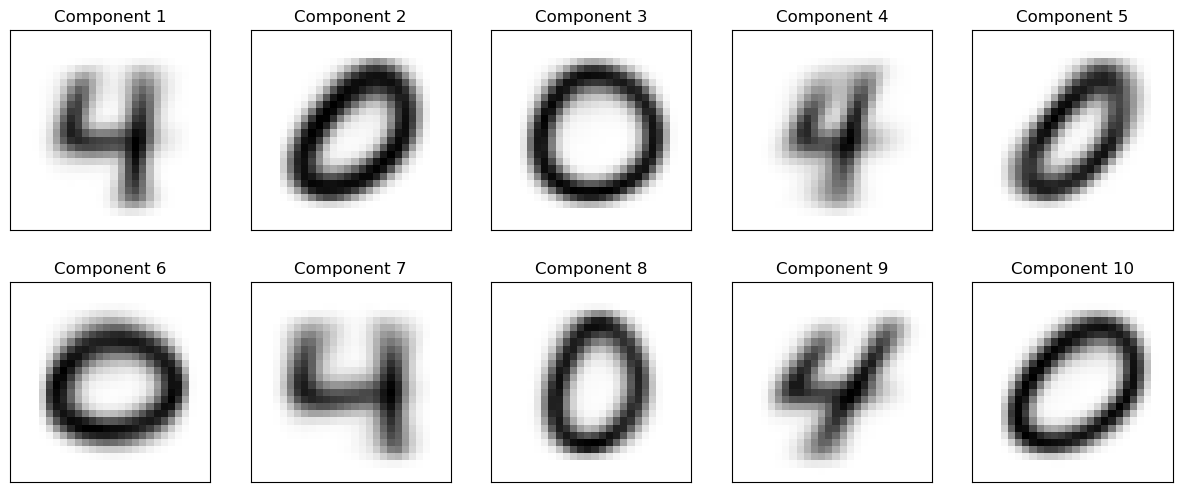
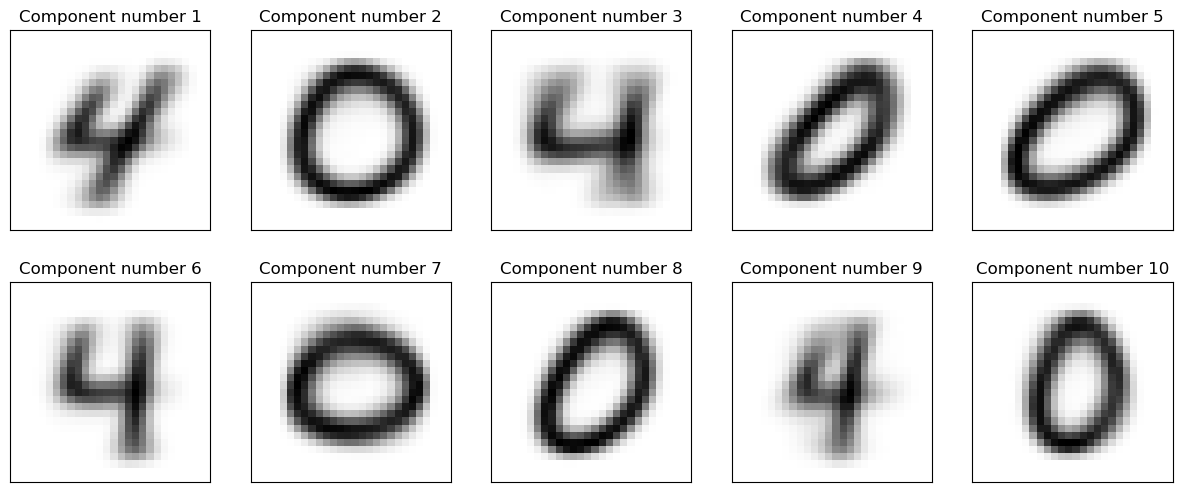
Update: Replace GMM and reconstruction images with exact outputs from notebook cells 15, 23, and 25

diff --git a/README.md b/README.md
@@ -47,15 +47,24 @@ $$
 
 ## 🖼️ Visualizations
 
-### Unsupervised Style Discovery (GMM Components)
-Below are the mean representations learned by the 10-component Gaussian Mixture Model (GMM). The model successfully separates distinct handwriting styles (e.g., different styles of zeros and fours) entirely unsupervised:
+### 1. Unsupervised Style Discovery (GMM Components)
+Below are the mean representations learned by the 10-component Gaussian Mixture Model (GMM) from cell 15. The model successfully separates distinct handwriting styles (e.g., slanted vs. fat zeros and fours) entirely unsupervised:
 
 ![GMM Components](images/gmm_components.png)
 
-### Probabilistic Image Imputation
-Here is the result of censoring the central 21% of the test images and reconstructing them using conditional Gaussians:
+### 2. Full MNIST Generative Classification
+Here are the classification predictions made by the multivariate Gaussian classifier on a sample batch of the test set from cell 23:
 
-![Reconstruction Results](images/reconstructed_results.png)
+![Classification Predictions](images/classification_predictions.png)
+
+### 3. Missing Feature Imputation & Reconstructions
+Here are the test images with their central 21% of pixels censored (from cell 25):
+
+![Censored Images](images/censored_images.png)
+
+And the corresponding reconstructed images generated by using conditional multivariate Gaussians:
+
+![Reconstructed Images](images/reconstructed_images.png)
 
 ---
 